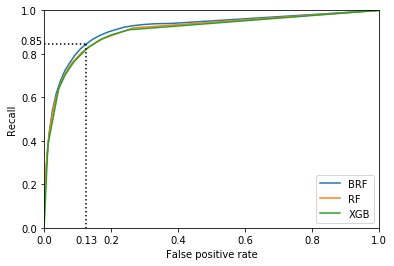
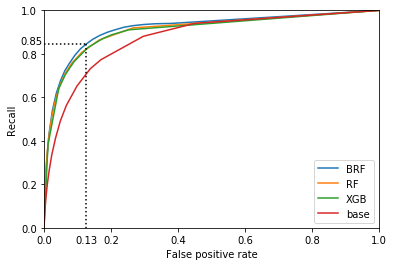
Update on Overleaf.

diff --git a/main.tex b/main.tex
@@ -1,6 +1,6 @@
 \documentclass[conference]{IEEEtran}
 
-\IEEEoverridecommandlockouts
+% \IEEEoverridecommandlockouts
 % The preceding line is only needed to identify funding in the first footnote. If that is unneeded, please comment it out.
 \usepackage{cite}
 \usepackage{amsmath,amssymb,amsfonts}
@@ -9,7 +9,15 @@
 \usepackage{textcomp}
 \usepackage{xcolor}
 \usepackage[utf8]{inputenc}
-\usepackage[hidelinks]{hyperref}
+\usepackage{hyperref}
+\hypersetup{
+    colorlinks=true,
+    linkcolor=.,
+    filecolor=.,
+    urlcolor=blue,
+    citecolor=.
+}
+\urlstyle{same}
 \usepackage[normalem]{ulem}  % for \ulem
 \usepackage{xspace}
 
@@ -18,6 +26,7 @@
 \newcommand{\todo}[1]{\colorlet{saved}{.}\color{blue}#1\color{saved}}
 \newcommand{\TG}[1]{\colorlet{saved}{.}\color{orange}From Tristan: #1\color{saved}}
 \newcommand{\BJ}[1]{\noindent{\color{cyan}[\textsc{BJ:} #1]}\xspace}
+\newcommand{\AH}[1]{\noindent{\color{teal}[From Antoine: #1]}\xspace}
 \newcommand{\english}[1]{\uwave{#1}}  % English needs to be revised: it's either unclear or incorrect
 \begin{document}
 
@@ -39,7 +48,7 @@ for millions of deaths and injuries every year in the world. In Quebec only, roa
 In this paper, we show how one can leverage open datasets of a city like
 Montreal, Canada, to create accident prediction models, using state-of-the-art
 big data analytics.
-Such models could be used in the context of road accident prevention, \english{but also}
+Such models could be used in the context of road accident prevention, but also
 to identify key factors that can lead to a road accident, and consequently, help
 elaborate new policies.
 
@@ -52,13 +61,9 @@ points with the highest risk of collision, which corresponds to 85\% of
 vehicle collisions.
 In addition, we identify the most important predictors of vehicle collisions for the area of Montreal: the count of accidents on the same road segment during previous years, the temperature, the day of the year, the hour and the visibility.
 
-\BJ{???: mais pas a Montreal (comme indiqu\'e dans le titre), peut-etre plusieurs ann\'ees, ou sinon le cout pour SAAQ}
-\TG{Is the PR in?} 
-\BJ{Not sure the details of scala/Python are needed in the abstract}.
-\BJ{keywords in conference paper? check the template}
-
 \end{abstract}
 
+% When submitting the abstract, we had to provide keywords.
 \begin{IEEEkeywords}
 Road accidents, Big data applications, Data analysis, Machine learning, Classification algorithms, Urban areas. 
 \end{IEEEkeywords}
@@ -71,11 +76,9 @@ Road accidents, Big data applications, Data analysis, Machine learning, Classifi
 
 The World Health Organization describes the road traffic system as the most
 complex and the most dangerous system with which people have to deal every
-day~\cite{Peden2004}. More particularly in Quebec, Canada, hundreds of people were killed in 2018, more than a thousand were seriously injured and tens of thousands of small injuries were noticed\cite{saaq}.
+day~\cite{Peden2004}. In the last few years, the number of road traffic deaths continued to climb, reaching 1.35 million in 2016\cite{road_safety_report}. More particularly in Quebec, Canada, hundreds of people were killed in 2018, more than a thousand were seriously injured and tens of thousands of small injuries were noticed\cite{saaq}.
 
 On the other hand, Big Data Analytics has emerged in the last decade as a set of techniques allowing data scientists to extract meaningful information from large amounts of complex and heterogeneous data \cite{Gandomi2015}. In the context of accident prediction, such techniques could provide insights on the conditions leading to an increased risk of road accidents, which in return, could be used to develop traffic-related policies and prevention operations. 
-
-\BJ{I agree with Tristan: Introduction = one section for motivation/general background + one section for your project description and very high level related work + your contributions + plan of the paper}
 
 % ------------------------
 % ------------------------
@@ -90,6 +93,7 @@ The open data philosophy is the equivalent of the open source philosophy but for
 This trend is made possible by the progress of information technology which allows the sharing of large amounts of data easily. In 2009, Canada, USA, UK and New Zealand, announced new initiative towards opening up public information. It is in this spirit that the Government of Canada launched its first-generation of the Open Data Portal in 2011~\cite{opendata101}, giving access to several public datasets. Since 2012, the city of Montreal is also taking part in the open data trend.
 
 \BJ{\sout{movement} trend}
+\AH{I've seen the term ``open data movement" used more often, but it's true it's not really a movement. Which one should we use ?}
 
 % ------------------------
 % ------------------------
@@ -99,12 +103,9 @@ This trend is made possible by the progress of information technology which allo
 
 With the progression of the open data initiative, governments and municipalities are publishing more and more data. At the same time, the recent progresses in Big Data Analytics have facilitated the processing of large data volumes. This makes it possible to build efficient data models for the study of road accidents.
 
-\BJ{I suggest not to restrict to that paper, even if it was your starting point, as other initiatives exists for predicting/anticipating car collision. Maybe ??? I would start this way //
-Several initiatives have been launched over the last few years in order to design tools in order to predict accidents. 
-On the one hand, there are now several cell phone applications which look at the driver behavior and attempt to anticipate accidents (refs), the trend of "pay as you drive" of several insurance company (e.g., \cite{tse16}), ...}
-
-An article\cite{mediumarticle} from the website ``Medium" presents a study of road accident prediction in the state of Utah with apparent good performances. This article has inspired us to try using public datasets to build a machine-learning model for road vehicle collision prediction. We used datasets 
-provided by the city of Montreal and the government of Canada as part of their open data initiative. As compared to this article, we have a smaller study area, the island of Montreal, but a higher prediction resolution. Indeed, the size and precision of our datasets made it possible to predict the occurrence of an accident during an hour on road segments defined by road intersections.
+Accident prediction has been extensively studied in the last decade. Several studies used relatively small datasets and performed accident prediction only on a few selected roads\cite{Chang2005, Chang2005b, Lin2015, Theofilatos2017}. More recently, other studies performed accident prediction at a larger scale, such as cities or states, using deep 
+learning\cite{QChen2016, Najjar2017, Yuan2018}.
+However, unlike previous studies they only provide an estimation of the risk of accidents for large areas, i.e. at a coarse spatial resolution. An online article\cite{mediumarticle} presents a study of high resolution road accident prediction in the state of Utah with apparent good performances. This article has inspired us to try to build a machine-learning model for high-resolution road vehicle collision prediction using public datasets. We used datasets provided by the city of Montreal and the government of Canada as part of their open data initiative. As compared to this study, we have a smaller study area, the island of Montreal, but a higher prediction resolution. Indeed, the size and precision of our datasets made it possible to predict the occurrence of an accident during an hour on road segments defined by road intersections.
 
 Road vehicle collision prediction can be seen either as a regression problem: predicting the risk of accident, which can have multiple definition, or as a binary classification problem: predicting if an accident will occur or not. 
 We chose to see this as a classification problem because this simpler approach facilitates the interpretation and comparison of results.
@@ -135,8 +136,7 @@ meaningful features for road accident prediction,
 \item The implementation of Balanced Random Forest~\cite{Chen2004} in Apache Spark for efficient distributed training.
 \end{itemize}
 
-All the source code used is publicly available on Github under MIT
-license\footnote{\url{https://github.com/big-data-lab-team/accident-prediction-montreal}}.
+All the source code used is publicly available \href{https://github.com/big-data-lab-team/accident-prediction-montreal}{on Github} under MIT license.
 
 The rest of this paper is organized as follows: Section 2 presents
 the related work on accident prediction and on learning data imbalance, Section 3 presents the datasets we used and
@@ -257,7 +257,6 @@ metric which is not well suited for problems with data imbalance such as
 road accident prediction\cite{He2009}. The studies performing regression
 use different definitions for the risk of accident, which makes comparisons
 difficult.
-
 % ------------------------
 % ------------------------
 % ------------------------
@@ -306,7 +305,7 @@ imbalance problem and suggest to use methods similar to Balanced Random Forest.
 
 We used three public datasets provided by the city of Montreal and the government of Canada: 
 
-\paragraph{Montreal Vehicle Collision\protect\footnote{\url{http://donnees.ville.montreal.qc.ca/dataset/collisions-routieres}}}
+\paragraph{\href{http://donnees.ville.montreal.qc.ca/dataset/collisions-routieres}{Montreal Vehicle Collision}}
 
 This dataset, provided by the city of Montreal, contains all the road
 collisions reported by the police occurring from 2012 to 2018 on the island
@@ -316,23 +315,23 @@ death, the number of vehicles involved, and information on the road
 conditions. The dataset contains 150,000 collisions, among which 134,489
 contain the date, the hour and the localization of the accident. We used
 only these three variables since we do not have other information when no accident happened.
-Another dataset with all vehicle collision in Canada is available\footnote{\protect\url{https://open.canada.ca/data/en/dataset/1eb9eba7-71d1-4b30-9fb1-30cbdab7e63a}} but
+Another dataset with all \href{https://open.canada.ca/data/en/dataset/1eb9eba7-71d1-4b30-9fb1-30cbdab7e63a}{vehicle collision in Canada} is available but
 without the localization of the accident, therefore we restrained our
 analysis to the city of Montreal.
 
-\paragraph{National Road Network\protect\footnote{\url{https://open.canada.ca/data/en/dataset/3d282116-e556-400c-9306-ca1a3cada77f}}}
+\paragraph{\href{https://open.canada.ca/data/en/dataset/3d282116-e556-400c-9306-ca1a3cada77f}{National Road Network}}
 
 This dataset, provided by the government of Canada, contains the geometry of
 all roads in Canada. For each road segment, a few meta-data are given. For
 roads in Québec, only the name of the road and the name of the place are provided. The
 data was available in various formats, we chose to use the Keyhole Markup
-Language, which is a standard of the Open Geospatial Consortium since 2008\protect\footnote{\url{https://www.loc.gov/preservation/digital/formats/fdd/fdd000340.shtml}}. 
+Language, which is a standard of the Open Geospatial Consortium since 2008\cite{kml}, 
 This format is based on the Extensible Markup Language (XML), which makes it
 easier to read using existing implementation of XML parsers. From this
 dataset, we selected the $44,111$ road segments belonging to the island of
 Montreal (the dataset is separated in regions and cities).
 
-\paragraph{Historical Climate Dataset\protect\footnote{\url{climate.weather.gc.ca}}}
+\paragraph{\href{http://climate.weather.gc.ca/}{Historical Climate Dataset}}
 
 This dataset, provided by the government of Canada, contains hourly weather
 information measured at different weather stations across Canada. For each
@@ -384,7 +383,7 @@ managed to reduce the processing time to a reasonable time of a few hours.
 
 We also used clusters from Compute Canada to take maximum advantage of Apache Spark distributed nature for the generation of examples and the hyper-parameter tuning of our models. We started with the Cedar cluster provided by West Grid and we continued with the new Beluga cluster provided by Calcul Québec.
 
-To facilitate tests and development, our pre-processing program\footnote{\url{https://github.com/big-data-lab-team/accident-prediction-montreal/blob/master/preprocess.py}} saves intermediary results to disk in the Parquet format. During later execution of the algorithm, if the intermediary results exists on disk, they will be read instead of being recomputed. This made it possible to quickly test new features and different parameters by recomputing only the required parts of the dataset.
+To facilitate tests and development, our \href{https://github.com/big-data-lab-team/accident-prediction-montreal/blob/master/preprocess.py}{pre-processing program} saves intermediary results to disk in the Parquet format. During later execution of the algorithm, if the intermediary results exists on disk, they will be read instead of being recomputed. This made it possible to quickly test new features and different parameters by recomputing only the required parts of the dataset.
 
 \section{Model Development}
 
@@ -454,7 +453,7 @@ Fog. We selected these phenomenons because we think they increase the risk of
 accidents. Then we computed the exponential moving average of this binary
 variable over time for each station in order to model the fact that
 these phenomenons have an impact after they stop being observed and a greater
-impact when they are observed for a longer period of time\footnote{\url{https://github.com/big-data-lab-team/accident-prediction-montreal/blob/master/weather.py\#L186}}.
+impact when they are observed for a longer period of time.
 We used the same method as for other weather information to get a value for a given 
 GPS position from the values of the weather stations.
 
@@ -483,9 +482,9 @@ hour difference between these two values. Cyclical encoding allows to express
 this fact. With cyclical encoding, we compute two features, the first one is
 the cosine of the original feature scaled between 0 and 2$\pi$, and the second
 one is the sine of the original feature scaled between 0 and 2$\pi$.
-In addition to these basic date features, we computed an approximation
+In addition to these basic date features, \href{https://github.com/big-data-lab-team/accident-prediction-montreal/blob/master/solar\_features.py}{we computed} an approximation
 of the solar elevation using the hour of the day, the day of the year
-and the GPS coordinates\footnote{\url{https://github.com/big-data-lab-team/accident-prediction-montreal/blob/master/solar\_features.py}}. The solar elevation is the angle 
+and the GPS coordinates. The solar elevation is the angle 
 between the horizon and the sun. We think it can be useful, because it is
 linked to the luminosity which should be relevant for road accident prediction.
 
@@ -510,7 +509,7 @@ have been too high, we took a small sample of the dataset. Still, we could
 not test many parameter combinations using this method.
 
 Once we got a first result with grid search we continued manually by
-following a plan, do, check, adjust method. We used the area under the precision-recall curve as a main metric. We also plotted the precision-recall and ROC curves on the test and training set to better understand how the performances of our model could be improved\footnote{\url{https://github.com/big-data-lab-team/accident-prediction-montreal/blob/master/mains/main\_train\_brf.py}}. These curves are obtained by computing the precision, the recall and the false positive rate metrics when varying the threshold used to classify an example as positive. Most classification algorithms provide a measure of the confidence with which an example belongs to a class. We can reduce the threshold on the confidence beyond which we classify the example as positive in order to achieve a higher recall but a lower precision and a higher false positive rate.
+following a plan, do, check, adjust method. We used the area under the precision-recall curve as a main metric. We also plotted the precision-recall and ROC curves on the test and training set to better understand how the performances of our model could be improved. These curves are obtained by computing the precision, the recall and the false positive rate metrics when varying the threshold used to classify an example as positive. Most classification algorithms provide a measure of the confidence with which an example belongs to a class. We can reduce the threshold on the confidence beyond which we classify the example as positive in order to achieve a higher recall but a lower precision and a higher false positive rate.
 
 Interestingly, despite using many trees, our Random Forest classifiers
 tended to over-fit very quickly as soon as the maximum depth parameter went
@@ -580,19 +579,25 @@ evaluate our models, we used a test set containing the last two years of our
 dataset. The model was trained on the 4 previous years and used only data
 from these years. For instance, the ``count\_accident" feature contains only
 the count of accidents occurring from 2012 to 2016 on the road segment.
+In addition to the three models built using tree-based machine learning algorithms,
+we created a very basic model using only the count of accident of the road segment.
+We used the results of this model as a baseline. The probability of accident given 
+by this model for an example whose road segment has a count of accident of $n$, is the percentage
+of the examples with a count of accident higher than $n$ which are positive.
 
-Table~\ref{table:summary} presents the results obtained with the classical
-Random Forest algorithm with further under-sampling (RF), with the Balanced Random Forest algorithm (BRF), and with the XGBoost algorithm (XGB) on the test set. The values of the hyper-parameter we used and more details about the results are available on the Github repository of the project\footnote{\url{https://github.com/big-data-lab-team/accident-prediction-montreal/tree/master/results}}
+
+Table~\ref{table:summary} presents the results obtained on the test set with the classical
+Random Forest algorithm with further under-sampling (RF), with the Balanced Random Forest algorithm (BRF), with the XGBoost algorithm (XGB), and with the baseline model (base). The values of the hyper-parameter we used and more details about the results are available on the \href{https://github.com/big-data-lab-team/accident-prediction-montreal/tree/master/results}{Github repository of the project}.
 
 \begin{table}[htbp]
 \caption{Result Summary}
 \begin{center}
-\begin{tabular}{|l|r|r|r|}
-\cline{2-4}
-\multicolumn{1}{c|}{} &    BRF &    RF &    XGB \\
+\begin{tabular}{|l|r|r|r|r|}
+\cline{2-5}
+\multicolumn{1}{c|}{}    &    BRF &    RF  &    XGB & base \\
 \hline
-Area under the PR curve &  0.547 &  0.535 &  0.531 \\
-Area under the ROC curve &  0.916 &  0.918 &  0.909 \\
+Area under the PR curve  &  0.547 &  0.535 &  0.531 & 0.370 \\
+Area under the ROC curve &  0.916 &  0.918 &  0.909 & 0.874 \\
 \hline
 \end{tabular}
 \label{table:summary}
@@ -672,11 +677,12 @@ not only inform the machine learning algorithm about the dangerousness of a road
 segment but also indirectly about the number of vehicles using this road.
 
 \subsection{Test of our implementation of BRF on the mammography dataset}
-As expected, we obtained similar results to the imbalanced-learn library with our implementation of the BRF algorithm. Surprinsigly, the BRF algorithm obtained lower areas under the precision-recall curve than the Random Forest algorithm for both implementations. The precision-recall curve explains it, the BRF algorithm had a better precision with high recall values, but a much lower precision with low recall values. For medical diagnosis and road vehicle collision prediction, we usually prefer to have a higher recall with a lower precision, so BRF is more suitable for these usecases. This shows that the measure of the area under the precision-recall curve is not enough to compare the perfomances of a model on given problem, it is necessary to look at the curve. 
+As expected, we obtained similar results to the imbalanced-learn library with our implementation of the BRF algorithm. Surprisingly, the BRF algorithm obtained lower areas under the precision-recall curve than the Random Forest algorithm for both implementations. The precision-recall curve explains it, the BRF algorithm had a better precision with high recall values, but a much lower precision with low recall values. For medical diagnosis and road vehicle collision prediction, we usually prefer to have a higher recall with a lower precision, so BRF is more suitable for these usecases. This shows that the measure of the area under the precision-recall curve is not enough to compare the performances of a model on given problem, it is necessary to look at the curve. 
 
 \subsection{Comparison of the different models for road vehicle collisions prediction}
-For the road vehicle collision prediction, the Balance Random Forest algorithm obtained slightly better results than the classical Random Forest algorithm. However, the gain in prediction performance is small. We believe this is caused by the fact that negative examples are not so different from each other and the information they contain is well captured by a single random sub-sample. Like on the mammography dataset, we observe that the BRF algorithm achieved better performances than Random Forest with high recall values. With lower recall values both Random Forest algorithms had similar performances. The XGBoost algorithm obtained worse results than the two other algorithms. However, it is still interesting because it was much faster to train than Random Forest algorithms. This made the hyper-parameter tuning of the XGBoost algorithm easier and much faster.
-\TG{How do you explain the very small added-value of data imbalance techniques?} 
+For the road vehicle collision prediction, the Balance Random Forest algorithm obtained slightly better results than the classical Random Forest algorithm. However, the gain in prediction performance is small. 
+\AH{should we talk about the performance difference for a threshold of 0.5 ?}
+We believe this is caused by the fact that negative examples are not so different from each other and the information they contain is well captured by a single random sub-sample. Like on the mammography dataset, we observe that the BRF algorithm achieved better performances than Random Forest with high recall values. With lower recall values both Random Forest algorithms had similar performances. The XGBoost algorithm obtained worse results than the two other algorithms. However, it is still interesting because it was much faster to train than Random Forest algorithms. This made the hyper-parameter tuning of the XGBoost algorithm easier and much faster.
 
 \subsection{Real-world performances of our road vehicle collision prediction model}
 As stated previously, the measure of the accuracy is not a good metric for road accidents
@@ -730,11 +736,6 @@ particularly risky road segments could detect patterns that could help to
 take measure to reduce the number of accidents in Montreal. This can also
 allow to improve our current accident prediction model, if the detected
 patterns can be used by fusing other datasets.
-
-\TG{Two comments on the language. (1) Overall it's fine, but many sentences sound 
-quite French. In particular, you could reduce your use of ``the": when the noun is indefinite, or when it's unambiguous, just don't use the article.  For instance, ``the" is not needed in ``Section
-4 presents how we performed feature engineering, feature
-selection and the hyper-parameter tuning", otherwise it puts emphasis on the fact that hyper-parameter tuning is special, which isn't the case. (2) You use ``we believe" a lot and it sometimes reads weird. You can use ``is likely to", or ``may" instead. Since you have time before the submission, and these comments are more relevant when coming from native English speakers, you could go to Concordia's writing assistance and have them read and comment on a page or two of the paper: \url{https://www.concordia.ca/students/success/learning-support/writing-assistance.html}. Again, this is only to improve an already very good writing!}
 
 % ------------------------
 % ------------------------
